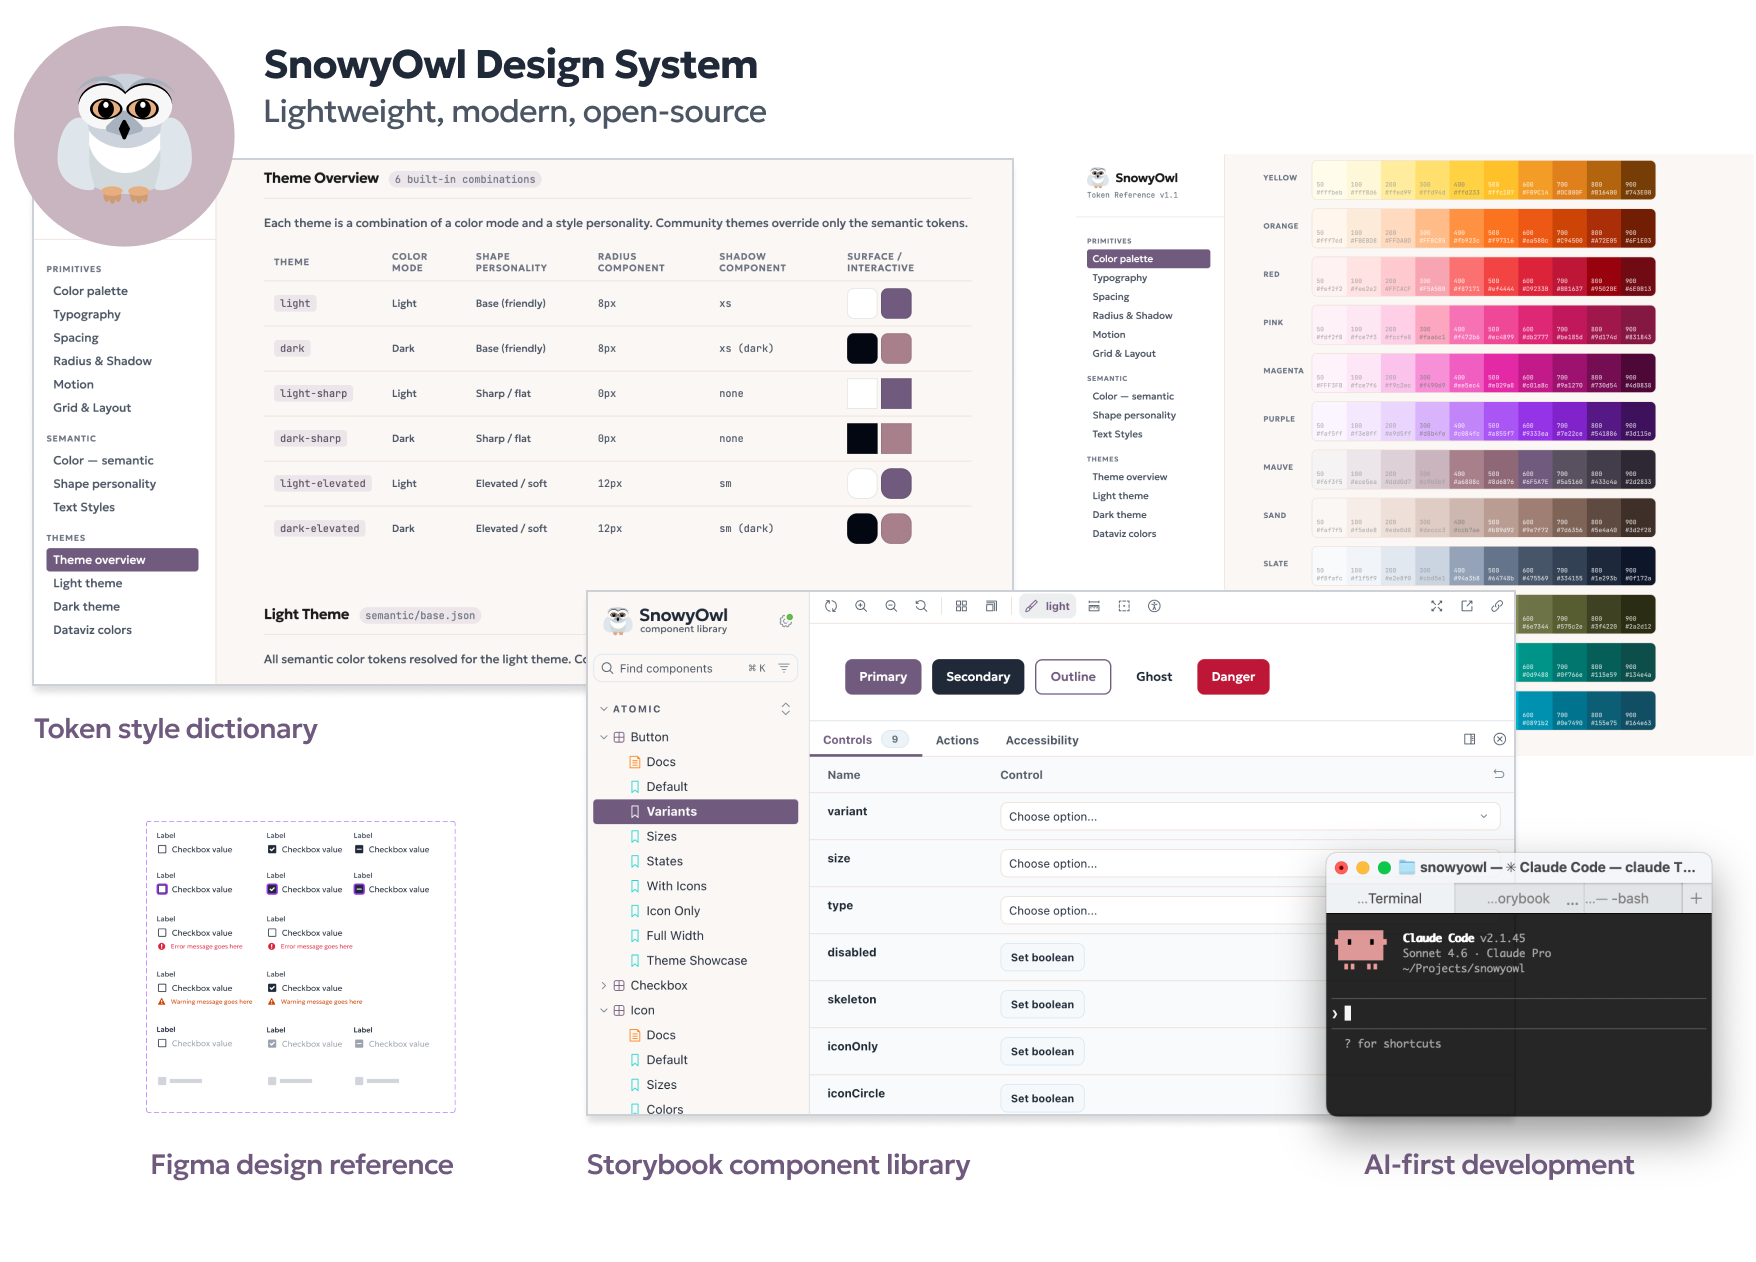
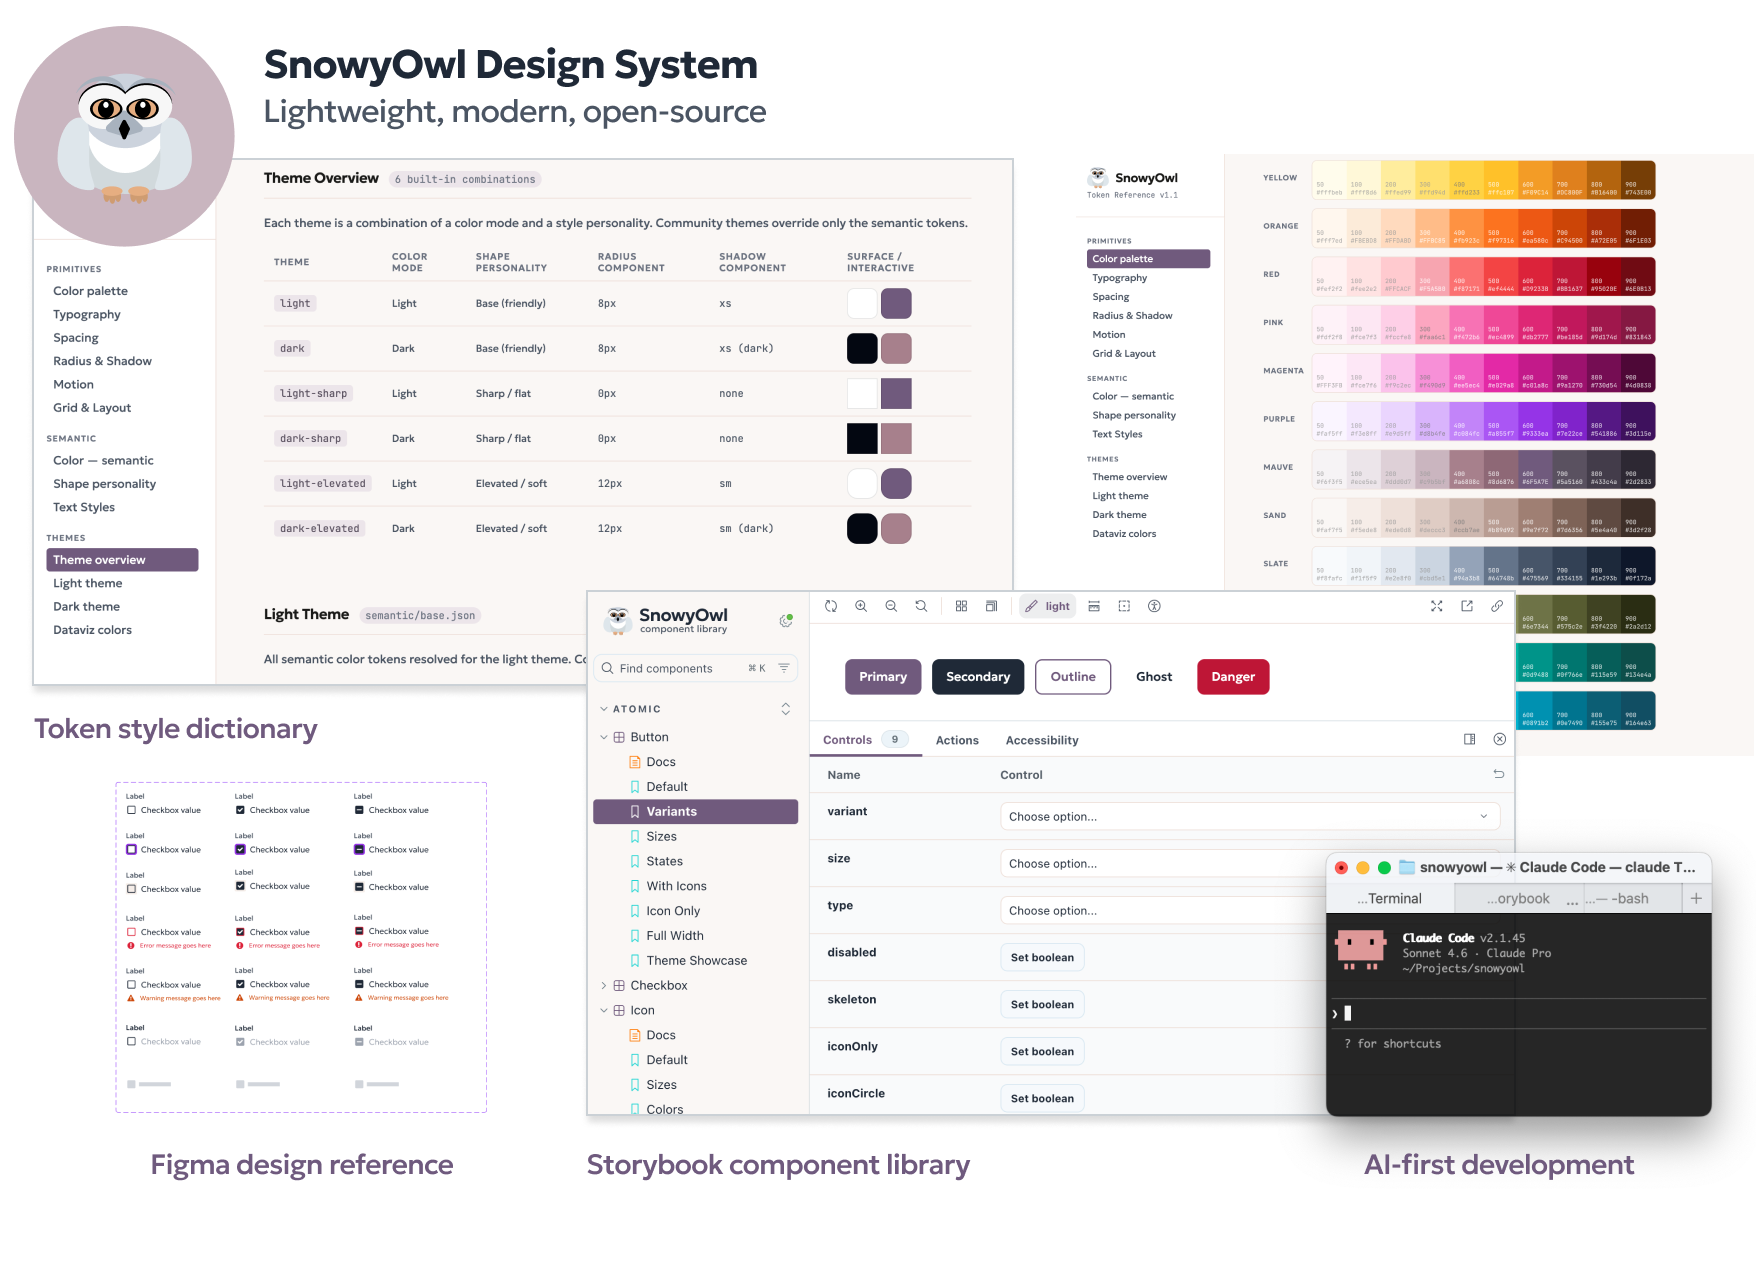
replace image

Changed region(s): [[0.0615, 0.6181, 0.246, 0.8653]]

diff --git a/index.html b/index.html
@@ -290,7 +290,7 @@ complexity of irregular, multi-variant data from hundreds of hospitals. Develope
 				<div class="flex-section">
 					<div class="flex-col col3">
 						<div class="sample">
-							<img src="assets/images/SnowyOwl.png" alt="SnowyOwl Design System" class="noshadow">
+							<img src="assets/images/snowyowl.webp" alt="SnowyOwl Design System" class="noshadow">
 						</div>
 						<p class="about">SnowyOwl is an open-source, theme-extensible design system built as framework-agnostic
 web components using Lit. It is inspired by Carbon Design System in terms of documentation depth and best practices, but designed to be lightweight and community-customizable.</p>
